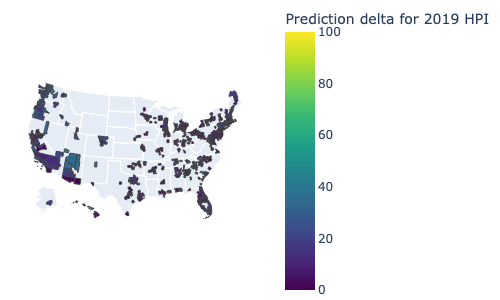
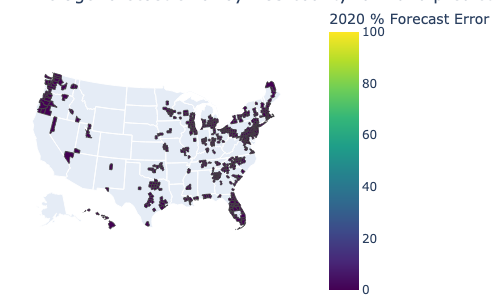
updates to streamlit tree model page

diff --git a/streamlit/model_one.py b/streamlit/model_one.py
@@ -1,25 +1,157 @@
 """Example Model file."""
 import streamlit as st
-from utils import load_data
+import pandas as pd
+import numpy as np
+import seaborn as sns
+import matplotlib.pyplot as plt
+
+from urllib.request import urlopen
+import json
+
+import plotly.graph_objects as go
+import plotly.express as px
 
 
 def model1():
-        
-    st.write("Model 1 running...Testing Streamlit interface - here is the Supervised analysis")
 
-    
-    
     st.header("Extra Trees Regressor  :deciduous_tree: 	")
     
-    st.write("Below is the predictions for all the available counties")
+    st.write("We wanted to explore tree regression models because of their capabilities with diverse input data. This family of models handles the variety of scale in our data well. We were able to utilize all data sources including demographic data from the ACS. ")
+
+    st.write("The use of ACS data limits the counties available to those with populations > 65,000. In order to compare to the VAR model (model 2) which uses monthly data, we are also limited to counties with monthly Redfin data. The final count of U.S. counties used in this model is 613.")
+    
+    st.write("Using PyCaret AutoML we isolated two top-performing model types on our data: Random Forest Regressor and Extra Trees Regressor. We then further tuned these models outside of PyCaret through gridsearch. Ultimately the Extra Trees Regressor performed best and we selected it as our top tree model.")
+
+    st.write("We split our data into train, test, and validation. Because the data is yearly we withheld all of 2019 (predicting 2020 median sale price) as validation. Training data comprised 75% of the remaining years with the remainder to test.")
+
+    st.write("Our first iteration of this model yielded extremely strong results with a test R2 of 0.973 and validation R2 of 0.951. Such high scores were somewhat suspect and further explained by examining the features importances:")
+
+    feature_df1 = pd.read_csv("data/tree_model1_features.csv")
+
+    fig = px.bar_polar(feature_df1.iloc[:30,:], r='Importance', theta='Feature',
+                color='Feature', template='plotly_dark',
+                color_discrete_sequence=px.colors.sequential.Plasma_r)
+
+    st.plotly_chart(fig,use_container_width=True)
+
+    st.write("The top four features in the model are median home value, median price per square foot, median list price per square foot, and median list price. We suspected high correlation with the outcome variable, median sale price, and confirmed via correlation matrix:")
+
+    corr_df = pd.read_csv("data/correlation_matrix.csv").drop("Unnamed: 0", axis=1)
+    corr_df.columns = ['median home value', 'median price per square foot', 'median list price', 'median list price per square foot', 'median sale price']
+    mask = np.triu(np.ones_like(corr_df.corr(), dtype=np.bool))
+    fig, ax = plt.subplots()
+    sns.heatmap(corr_df.corr(), mask=mask, annot=True, cmap='Blues', ax=ax)
+
+    st.pyplot(fig, use_container_width=True)
+
+    st.write("For our final iteration of this model type we removed the four highly correlated features and ran the model with the remaining features. We still found highly favorable results with a test R2 of 0.92 and 2019 validation data R2 of 0.829. The RMSE (a measure of the standard deviation of residuals) for 2019 predicting 2020 with this model is $66,606.")
+
+    st.write("The feature importances show much different results in this iteration:")
+
+    feature_df2 = pd.read_csv("data/tree_model2_features.csv")
+
+    fig = px.bar_polar(feature_df2.iloc[:30,:], r='Importance', theta='Feature',
+                color='Feature', template='plotly_dark',
+                color_discrete_sequence=px.colors.sequential.Plasma_r)
+
+    st.plotly_chart(fig,use_container_width=True)
+
+    st.write("Some of the top features include tax and debt data. These are at the state level. Some of the county-level demographic data also shows up here. Education levels in particular can predict higher home sales. Average sale to list is a measure of time on the market.")
+
+    st.write("A plot of counties along with the predicted and real values in 2020 is shown below:")
+
+    data2019 = pd.read_csv("data/prediction_map.csv")
+
+    with urlopen('https://raw.githubusercontent.com/plotly/datasets/master/geojson-counties-fips.json') as response:
+        counties = json.load(response)
+
+    fig = px.choropleth(data2019, geojson=counties, locations='FIPS', color='2020 % Forecast Error',
+                            color_continuous_scale="Viridis",
+                            hover_name = 'County',
+                            hover_data =['Predicted Median Sale Price 2020'],
+                            scope="usa",
+                            labels={'Forecast error %':'2020 % Forecast error'},
+                            title = 'Average forecast error by ACS county for 2020 prediction'
+                            )
+
+    st.plotly_chart(fig,use_container_width=False)
+
+    st.write("Metrics for this model are:")
+
+    rmse_df = pd.DataFrame({'RMSE': ['$66,606'], 'Test R^2': ['0.92'], 'Validation R^2': ['0.829']})
+    
+    MSE_r2 = go.Figure(data=[go.Table(
+                header=dict(values=['RMSE','Test R^2', 'Validation R^2'],
+                line_color='darkslategray',
+                fill_color='#3366CC',
+                align=['center','center', 'center'],
+                font=dict(color='white', size=20),
+                height=40),
+                cells=dict(values=[rmse_df['RMSE'], rmse_df['Test R^2'], rmse_df['Validation R^2']],
+                line_color='darkslategray',
+                fill=dict(color=['white', 'white', 'white']),
+                align=['center', 'center', 'center'],
+                font_size=18,
+                height=30)
+                  )])
+    
+    MSE_r2.update_layout(height = 300)
+    st.plotly_chart(MSE_r2,use_container_width=True) 
+
+    st.header("Top 10 Counties from Extra Trees Regressor model  :evergreen_tree:")
+    st.write("Below are the top 10 predicted counties for model comparison")
+
+
+    summary2020prediction = pd.DataFrame({'County': ['Athens County, OH', 'Gloucester County, NJ', 'Camden County, NJ',
+                                    'Burlington County, NJ', 'Mercer County, NJ', 'Sussex County, NJ', 'Cumberland County, NJ',
+                                    'Coryell County, TX'], '2020 Price % increase over 2019': [143,123,99,85,74,71,65,59]})
+
+
+
+    top10table = go.Figure(data=[go.Table(
+                header=dict(values=['County','2020 Price % increase over 2019'],
+                line_color='darkslategray',
+                fill_color='#3366CC',
+                align=['center','center'],
+                font=dict(color='white', size=20),
+                height=40,),
+                cells=dict(values=[summary2020prediction['County'], summary2020prediction['2020 Price % increase over 2019']],
+                line_color='darkslategray',
+                fill=dict(color=['white', 'white']),
+                align=['center', 'center'],
+                font_size=18,
+                height=30)
+                  )])
+    
+    top10table.update_layout(width=1000, height=500)
+    st.plotly_chart(top10table,use_container_width=True)
+
+
+    st.write("""Some drawbacks of this model are: 
+             
+*  Time limitations. Because demographic data is only available from 2015-2019 at the county level we cannot make longer predictions or predict into the future.
+*  Granularity: county level is the smallest available location type available across this dataset.
+*  Lack of monthly data availability, unlike the other two models. This is due to data availability of ACS demographic data.
+*  Feature importances are all positive, meaning we cannot discern whether a feature has a negative or positive correlation with the outcome variable.
+                 
+              """) 
+
+    st.write("""Future work:
+             
+*  As years go by the availability of demographic data will increase. This model clearly shows the importance of some of these features. Even if we could not gather current demographic data, with a longer history we could build a regression model to predict more than 1 year ahead, making predictions into the future possible. This would be a useful tool for investors and individuals in the market for a home.
+*  Incorporate ensemble models to boost prediction strength.
+
+                 
+              """) 
+
+
+
 
     # Insert plotly plots
 
     # st.plotly_chart(Pred2022_plot,use_container_width=True)
 
 
-    st.header("Top 10 Counties from Extra Trees Regressor model  :evergreen_tree:")
-    st.write("Below is the top 10 predicted counties for model comparison")
 
 
     # Insert plotly plots

diff --git a/models/Supervised/tree_regression.py b/models/Supervised/tree_regression.py
@@ -74,6 +74,8 @@ def tree_model():
     feature_df = pd.DataFrame(d)
     feature_df = feature_df.sort_values(by='Importance', ascending=False).reset_index(drop=True)
 
+    feature_df.to_csv("streamlit/data/tree_model1_features.csv")
+
     fig = px.bar_polar(feature_df.iloc[:30,:], r='Importance', theta='Feature',
                 color='Feature', template='plotly_dark',
                 color_discrete_sequence=px.colors.sequential.Plasma_r)
@@ -115,6 +117,7 @@ def tree_model():
     fig.write_image("reports/figures/Supervised/tree_model1_scores.png", width=500, height=300)
 
     corr_df = df[['home_value_median', 'median_ppsf', 'median_list_price', 'median_list_ppsf', 'median_sale_price']]
+    corr_df.to_csv("streamlit/data/correlation_matrix.csv")
     mask = np.triu(np.ones_like(corr_df.corr(), dtype=np.bool))
     sns.heatmap(corr_df.corr(), mask=mask, annot=True, cmap='RdPu')
     plt.savefig('reports/figures/Supervised/tree_model1_correlation_matrix.png', width=500, height=300, bbox_inches="tight")
@@ -148,6 +151,8 @@ def tree_model():
     feature_df = pd.DataFrame(d)
     feature_df = feature_df.sort_values(by='Importance', ascending=False).reset_index(drop=True)
 
+    feature_df.to_csv("streamlit/data/tree_model2_features.csv")
+
     fig = px.bar_polar(feature_df.iloc[:30,:], r='Importance', theta='Feature',
                 color='Feature', template='plotly_dark',
                 color_discrete_sequence=px.colors.sequential.Plasma_r)
@@ -165,19 +170,34 @@ def tree_model():
     pred2019 = et.predict(X_val)
     data2019['Predicted_sale_price_change'] = pred2019
     data2019['Prediction_delta'] = ((data2019['median_sale_price'] - data2019['Predicted_sale_price_change'])/data2019['median_sale_price'])*100
+    data2019 = data2019[['county_fips', 'median_sale_price', 'Predicted_sale_price_change', 'Prediction_delta']]
+    data2019['percent_error'] = np.absolute(data2019['Prediction_delta'])/data2019['median_sale_price']*100
+    data2019.columns = ['FIPS', 'Median Sale Price 2020', 'Predicted', 'error', '2020 % Forecast Error']
+    county_names = pd.read_csv('data/processed/county_names.csv', header=1)
+    data2019['FIPS'] = data2019['FIPS'].apply(lambda x: int(x))
+    county_names['FIPS'] = county_names['FIPS'].apply(lambda x: int(x))
+    county_names['County'] = county_names['name'].astype(str) + ', ' + county_names['state'].astype(str)
 
-    fig = px.choropleth(data2019, geojson=counties, locations='county_fips', color='Prediction_delta',
+    data2019 = data2019.merge(county_names, how='left', on='FIPS')
+    data2019['Predicted Median Sale Price 2020'] = data2019['Predicted'].apply(lambda x: "${:,.0f}".format(x))
+    data2019['2020 % Forecast Error'] = data2019['2020 % Forecast Error'].apply(lambda x: round(x, 3))
+    data2019.to_csv("streamlit/data/prediction_map.csv", index=False)
+
+    fig = px.choropleth(data2019, geojson=counties, locations='FIPS', color='2020 % Forecast Error',
                             color_continuous_scale="Viridis",
                                 range_color=(0, 100),
+                            hover_name = 'County',
+                            hover_data =['Predicted Median Sale Price 2020'],
                             scope="usa",
-                            labels={'Prediction_delta':'Prediction delta for 2019 HPI'}
+                            labels={'Forecast error %':'2020 % Forecast error'},
+                            title = 'Average forecast error by ACS county for 2020 prediction'
                             )
     fig.update_layout(margin={"r":0,"t":0,"l":0,"b":0})
     fig.write_image("reports/figures/Supervised/tree_model2_prediciton_delta.png", width=500, height=300)
 
     ## calculate rmse
 
-    rmse = '$'+str(round(mean_squared_error(data2019['median_sale_price'], data2019['Predicted_sale_price_change'], squared=False)))
+    rmse = '$'+str(round(mean_squared_error(data2019['Median Sale Price 2020'], data2019['Predicted'], squared=False)))
 
 
     fig = go.Figure(data=[go.Table(header=dict(values=['Test R2', '2019 Validation R2', '2019 RMSE']),
